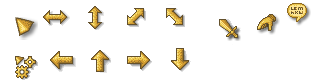
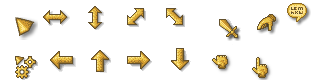
Added a hand mouse cursor, used when hovering links
InputEvent::mIsConsumed is used to tell the Window it should not change
the mouse cursor as well.

This change also adds a closed hand mouse cursor, though this is unused
for now (might be useful when dragging stuff around).

The new cursors are by meway.

Changed region(s): [[0.7812, 0.725, 0.8438, 1.0], [0.6562, 0.675, 0.7188, 0.9]]

diff --git a/src/gui/gui.cpp b/src/gui/gui.cpp
@@ -301,7 +301,7 @@ void Gui::loadCustomCursors()
                 0, targetCursorSize, targetCursorSize, 32,
                 rmask, gmask, bmask, amask);
 
-    for (int i = 0; i <= static_cast<int>(Cursor::DOWN); ++i)
+    for (int i = 0; i <= static_cast<int>(Cursor::LAST); ++i)
     {
         int x = i % columns * cursorSize;
         int y = i / columns * cursorSize;
@@ -330,7 +330,7 @@ void Gui::loadSystemCursors()
     constexpr struct {
         Cursor cursor;
         SDL_SystemCursor systemCursor;
-    } cursors[] = {
+    } cursors[static_cast<int>(Cursor::LAST) + 1] = {
         { Cursor::POINTER,           SDL_SYSTEM_CURSOR_ARROW },
         { Cursor::RESIZE_ACROSS,     SDL_SYSTEM_CURSOR_SIZEWE },
         { Cursor::RESIZE_DOWN,       SDL_SYSTEM_CURSOR_SIZENS },
@@ -343,7 +343,9 @@ void Gui::loadSystemCursors()
         { Cursor::LEFT,              SDL_SYSTEM_CURSOR_ARROW },
         { Cursor::UP,                SDL_SYSTEM_CURSOR_ARROW },
         { Cursor::RIGHT,             SDL_SYSTEM_CURSOR_ARROW },
-        { Cursor::DOWN,              SDL_SYSTEM_CURSOR_ARROW }
+        { Cursor::DOWN,              SDL_SYSTEM_CURSOR_ARROW },
+        { Cursor::DRAG,              SDL_SYSTEM_CURSOR_SIZEALL },
+        { Cursor::HAND,              SDL_SYSTEM_CURSOR_HAND },
     };
 
     for (auto cursor : cursors)

diff --git a/src/gui/widgets/window.cpp b/src/gui/widgets/window.cpp
@@ -383,14 +383,9 @@ void Window::close()
 
 void Window::mouseReleased(gcn::MouseEvent &event)
 {
-    if (mGrip && mouseResize)
-    {
-        mouseResize = 0;
-        gui->setCursorType(Cursor::POINTER);
-    }
+    mouseResize = 0;
 
-    // This should be the responsibility of Guichan (and is from 0.8.0 on)
-    mMoved = false;
+    gcn::Window::mouseReleased(event);
 }
 
 void Window::mouseExited(gcn::MouseEvent &event)
@@ -401,6 +396,15 @@ void Window::mouseExited(gcn::MouseEvent &event)
 
 void Window::mouseMoved(gcn::MouseEvent &event)
 {
+    // Make sure BeingPopup is hidden (Viewport does not receive mouseExited)
+    if (viewport)
+        viewport->hideBeingPopup();
+
+    // Don't change mouse cursor when event was consumed by child widget
+    // (in this case child widget is responsible for mouse cursor)
+    if (event.isConsumed())
+        return;
+
     int resizeHandles = getResizeHandles(event);
 
     // Changes the custom mouse cursor based on it's current position.
@@ -425,9 +429,6 @@ void Window::mouseMoved(gcn::MouseEvent &event)
         default:
             gui->setCursorType(Cursor::POINTER);
     }
-
-    if (viewport)
-        viewport->hideBeingPopup();
 }
 
 void Window::mouseDragged(gcn::MouseEvent &event)

diff --git a/src/gui/widgets/browserbox.cpp b/src/gui/widgets/browserbox.cpp
@@ -173,13 +173,17 @@ void BrowserBox::mousePressed(gcn::MouseEvent &event)
 
     updateHoveredLink(event.getX(), event.getY());
 
-    if (mHoveredLink)
+    if (mHoveredLink) {
         mLinkHandler->handleLink(mHoveredLink->link);
+        gui->setCursorType(Cursor::POINTER);
+    }
 }
 
 void BrowserBox::mouseMoved(gcn::MouseEvent &event)
 {
     updateHoveredLink(event.getX(), event.getY());
+    gui->setCursorType(mHoveredLink ? Cursor::HAND : Cursor::POINTER);
+    event.consume();        // Suppress mouse cursor change by parent
 }
 
 void BrowserBox::mouseExited(gcn::MouseEvent &event)

diff --git a/src/gui/gui.h b/src/gui/gui.h
@@ -61,6 +61,9 @@ enum class Cursor {
     UP,
     RIGHT,
     DOWN,
+    DRAG,
+    HAND,
+    LAST = HAND,
 };
 
 /**
